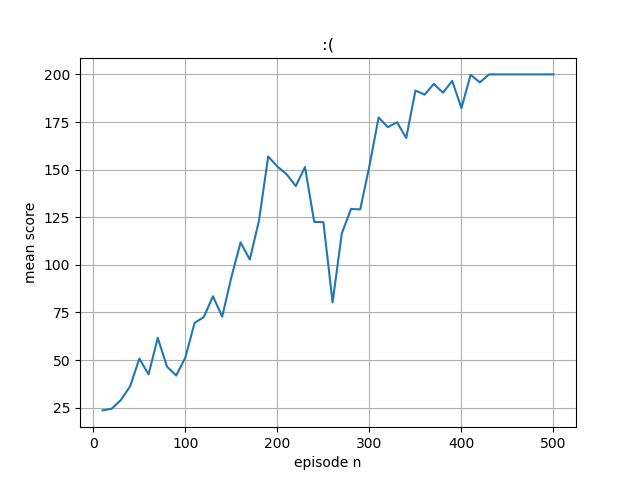
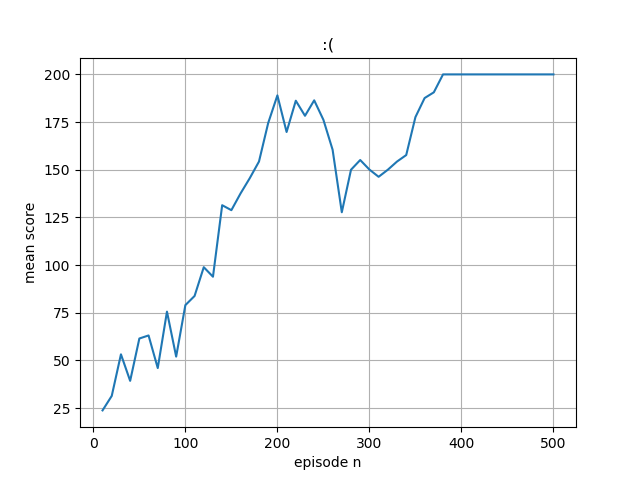
baseline added + charts

diff --git a/policy_gradient/cartpole(without baseline).py b/policy_gradient/cartpole(without baseline).py
@@ -1,0 +1,111 @@
+import numpy as np
+import gym
+import sys
+import tensorflow as tf 
+import matplotlib
+import matplotlib.pyplot as plt
+model = tf.keras.models.Sequential([
+  tf.keras.layers.Dense(128,input_shape=(1,4),activation='relu'),
+  tf.keras.layers.Dense(2, activation='softmax')
+])
+
+optimizer = tf.keras.optimizers.Adam(learning_rate = 0.01)
+model.summary()
+episode_n=[]
+mean_score=[]
+def update_policy():
+ print(len(replay_buffer))
+ # exit()
+ losses=[]
+ losses2=[]
+ with tf.GradientTape(persistent=True) as tape:
+  for x in replay_buffer:
+   for state,action,reward in x:
+     logits = model(state)
+     # if(action==0):
+     #   loss = compute_loss([[1,0]], logits)
+     # else:
+     #   loss = compute_loss([[0,1]], logits)
+     losses.append(-tf.math.log(tf.gather(tf.squeeze(logits),tf.convert_to_tensor(action)))*reward)
+
+  losses=tf.math.reduce_sum(losses)
+  losses/=10
+  # print(losses2)
+  # losses=tf.math.reduce_sum(losses,losses2)
+ grads = tape.gradient(losses, model.trainable_variables)
+ optimizer.apply_gradients(zip(grads, model.trainable_variables))
+ # print(grads)
+ # exit()
+
+def discount_normalize_rewards(r, gamma = 0.99):
+    discounted_r = np.zeros_like(r)
+    running_add = 0
+    for t in reversed(range(0, r.size)):
+        running_add = running_add * gamma + r[t]
+        discounted_r[t] = running_add
+        # print(discounted_r)
+    discounted_r -= np.mean(discounted_r)
+    discounted_r /= np.std(discounted_r)
+    return discounted_r
+env = gym.make('CartPole-v0')
+env.seed(1)
+# env._max_episode_steps = 1000
+episodes = 500
+batch_size = 10
+score=0
+replay_buffer=[]
+for e in range(episodes):
+  
+  state = env.reset()
+  
+  episode_memory = []
+  episode_score = 0
+  done = False 
+  while not done:
+    state = state.reshape([1,4])
+    logits = model(state)
+    # print(logits)
+    # print(state)
+    # state = state.reshape([1,1,4])
+    # print(state)
+    # state=[[[ 0.03073904,0.00145001,-0.03088818,-0.03131252]],[[ 0.03073904,0.00145001,-0.03088818,-0.03131252]]]
+    # print(np.array(state).shape)
+    # print(model.predict(np.array(state),2))
+    # exit()
+    a_dist = logits.numpy()
+    # Choose random action with p = action 
+    a = np.random.choice(a_dist[0],p=a_dist[0])
+    a, = np.where(a_dist[0] == a)
+    a=a[0]
+    #need numpy int64
+    # if(a==0):
+    # 	loss = compute_loss([[1,0]], logits)
+    # else:
+    # 	loss = compute_loss([[0,1]], logits)
+    # make the choosen action 
+    next_state, reward, done, _ = env.step(a)
+    episode_score +=reward
+    episode_memory.append([state,a,reward])
+    state=next_state
+  episode_memory=np.array(episode_memory)
+  episode_memory[:,2] = discount_normalize_rewards(episode_memory[:,2])
+  replay_buffer.append(episode_memory)
+  score+=episode_score
+
+  print("Episode  {}  Score  {}".format(e+1, episode_score))
+  if (e+1) % batch_size == 0:
+    episode_n.append(e+1)
+    mean_score.append(score/10)
+    print("Episode  mean  score  {}".format(score/10))
+    update_policy()
+    replay_buffer=[]
+    score=0
+    print("==Policy Updated==")
+
+fig, ax = plt.subplots()
+ax.plot(episode_n, mean_score)
+ax.set(xlabel='episode n', ylabel='mean score',title=':(')
+ax.grid()
+fig.savefig("test.png")
+plt.show()
+  

diff --git a/policy_gradient/cartpole(with baseline).py b/policy_gradient/cartpole(with baseline).py
@@ -8,6 +8,11 @@ model = tf.keras.models.Sequential([
   tf.keras.layers.Dense(128,input_shape=(1,4),activation='relu'),
   tf.keras.layers.Dense(2, activation='softmax')
 ])
+
+model2 = tf.keras.models.Sequential([
+  tf.keras.layers.Dense(128,input_shape=(1,4),activation='relu'),
+  tf.keras.layers.Dense(1)
+])
 optimizer = tf.keras.optimizers.Adam(learning_rate = 0.01)
 model.summary()
 episode_n=[]
@@ -17,7 +22,7 @@ def update_policy():
  # exit()
  losses=[]
  losses2=[]
- with tf.GradientTape() as tape:
+ with tf.GradientTape(persistent=True) as tape:
   for x in replay_buffer:
    for state,action,reward in x:
      logits = model(state)
@@ -25,12 +30,21 @@ def update_policy():
      #   loss = compute_loss([[1,0]], logits)
      # else:
      #   loss = compute_loss([[0,1]], logits)
+     value=model2(state)
+     losses2.append(tf.keras.losses.MSE(reward,value))
+     reward=reward-value
      losses.append(-tf.math.log(tf.gather(tf.squeeze(logits),tf.convert_to_tensor(action)))*reward)
+
   losses=tf.math.reduce_sum(losses)
-  # losses=tf.math.reduce_sum(losses)
+  losses2=tf.math.reduce_sum(losses2)
   losses/=10
-  grads = tape.gradient(losses, model.trainable_variables)
-  optimizer.apply_gradients(zip(grads, model.trainable_variables))
+  losses2/=10
+  # print(losses2)
+  # losses=tf.math.reduce_sum(losses,losses2)
+ grads = tape.gradient(losses, model.trainable_variables)
+ optimizer.apply_gradients(zip(grads, model.trainable_variables))
+ grads2 = tape.gradient(losses2, model2.trainable_variables)
+ optimizer.apply_gradients(zip(grads2, model2.trainable_variables))
  # print(grads)
  # exit()
 
@@ -88,26 +102,7 @@ for e in range(episodes):
   episode_memory[:,2] = discount_normalize_rewards(episode_memory[:,2])
   replay_buffer.append(episode_memory)
   score+=episode_score
-  
-  # 
-  # print(replay_buffer[:,2])
-  # exit()
 
-  # with tf.GradientTape() as tape:
-  #   losses=[]
-  #   for state,action,reward in replay_buffer:
-  #     logits = model(state)
-  #     if(action==0):
-  #       loss = compute_loss([[1,0]], logits)
-  #     else:
-  #       loss = compute_loss([[0,1]], logits)
-  #     losses.append(loss*reward)
-  #   print(losses)
-  #   exit()
-  #   losses=-tf.reduce_sum(losses)
-  #   grads = tape.gradient(loss, model.trainable_variables)
-  #   print(grads)
-  #   exit()
   print("Episode  {}  Score  {}".format(e+1, episode_score))
   if (e+1) % batch_size == 0:
     episode_n.append(e+1)
